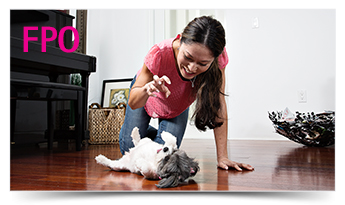
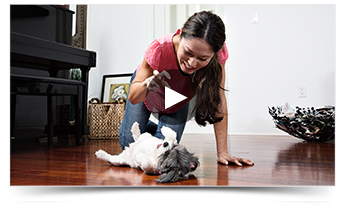
Reducing space on .static-body.resources-body, adding new Bravecto_BravoPets_videothumb

diff --git a/ProfSite/Content/bravectohome.css b/ProfSite/Content/bravectohome.css
@@ -689,6 +689,9 @@ a.orange:hover {
     text-align: left;
     margin-top: 100px;
 }
+.static-body.resources-body-less {
+    margin-top: 50px;
+}
 
     .static-body.resources-body.nomargin {
         margin-top: 0;
